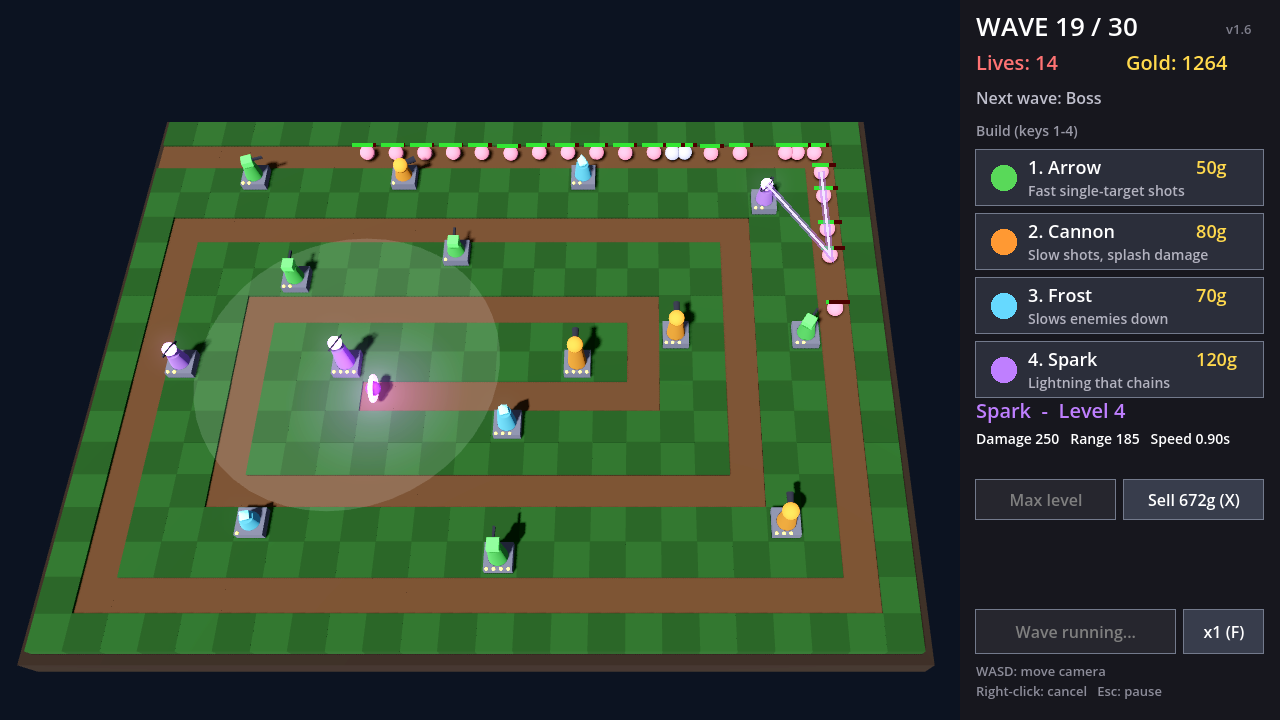
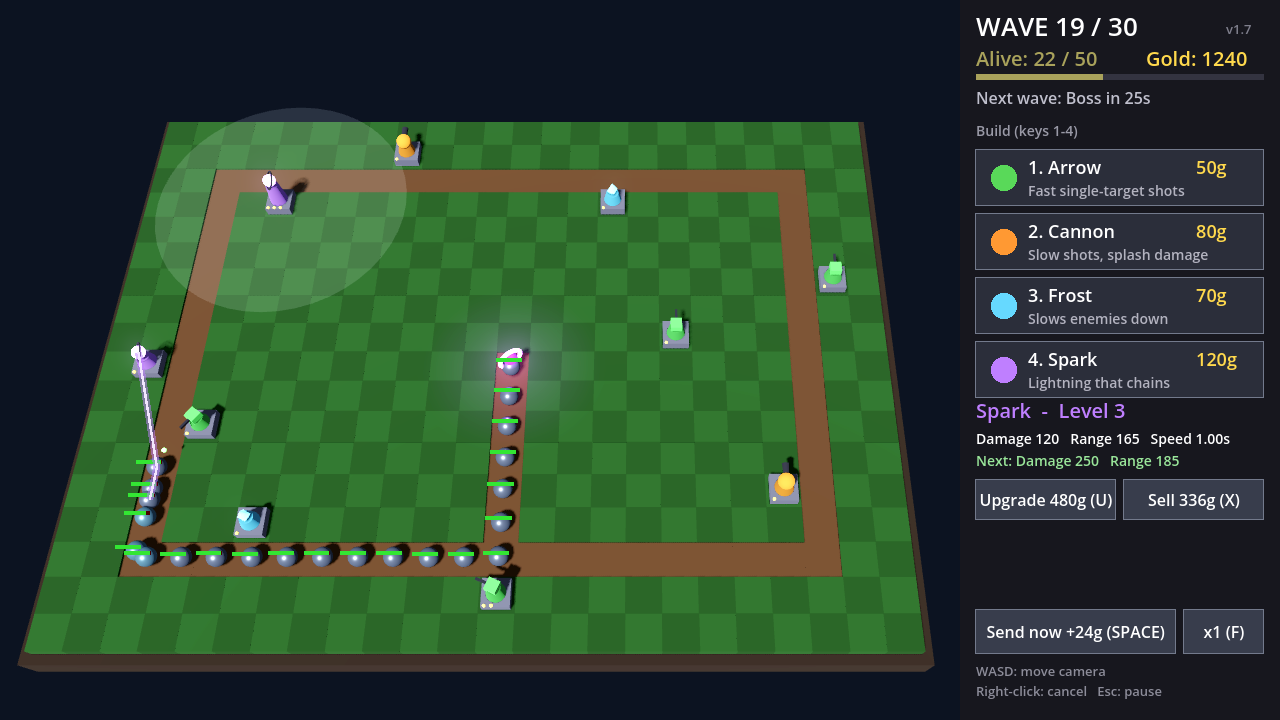
New game mode: monsters loop around a square
- Monsters spawn from the portal in the middle, walk down to a square
  path and walk around it clockwise until they die
- No more lives: you lose when 50 monsters are alive at once (a boss counts as 5)
- Waves come every 25 seconds after the first; Space sends one early
  for 1 bonus gold per second skipped, plus gold at the start of each wave
- Win when all 30 waves are out and every monster is dead
- Set version to 1.7; update README and screenshot

diff --git a/README.md b/README.md
@@ -4,7 +4,7 @@ A small 3D tower defense game made with [Godot 4](https://godotengine.org/), ins
 
 ![Screenshot of the game](screenshot.png)
 
-Enemies walk a spiral path toward a portal in the middle of the map. Build towers on the grass beside the path, upgrade them, and stop the enemies before they get through. Survive all 30 waves to win.
+Monsters come out of a portal in the middle of the map, walk out to a square path and walk around it clockwise, forever, until your towers kill them. Build towers on the grass, upgrade them, and don't let too many monsters pile up: if 50 are alive at the same time, you lose. Survive all 30 waves to win.
 
 The 3D world is built from simple shapes in code, so the game has no image, model or sound files.
 
@@ -36,7 +36,7 @@ godot --path path/to/this/folder
 | **U** | Upgrade the selected tower |
 | **X** / **Delete** | Sell the selected tower (70% refund) |
 | **W A S D** | Move the camera |
-| **Space** | Start the next wave |
+| **Space** | Start the game / send the next wave early (bonus gold) |
 | **F** | Change game speed (1×, 2×, 3×) |
 | **Right-click** | Cancel |
 | **Esc** | Pause / continue |
@@ -55,20 +55,22 @@ Each tower has 4 levels.
 
 ## Waves
 
-- **30 waves.** Enemies get tougher every wave.
+- **30 waves.** Monsters get tougher every wave.
+- Press **Space** to start. After that, a new wave comes every **25 seconds**, whether you're ready or not.
+- Press **Space** to send the next wave early and get **1 bonus gold for every second** you skip.
 - Every **3rd** wave is **armored**: armor reduces the damage of each hit.
 - Every **5th** wave is **fast**.
-- Every **10th** wave is a **boss**. A boss that reaches the portal costs 5 lives.
+- Every **10th** wave is a **boss**. A boss counts as 5 monsters toward the limit.
 
-You start with 150 gold and 20 lives. You earn gold for each kill and a bonus for each wave you clear.
+You start with 150 gold. You earn gold for each kill and a bonus at the start of each wave. The side panel shows how many monsters are alive: you lose if it reaches **50**. You win when all 30 waves are out and every monster is dead.
 
 ## Changing the game
 
 All the game code is in `main.gd`. Good places to start:
 
 - `TOWERS` at the top sets each tower's cost, damage, range and fire rate.
-- `START_GOLD`, `START_LIVES` and `MAX_WAVE` set the starting values and the number of waves.
-- `WAYPOINTS` sets the shape of the path.
+- `START_GOLD`, `MAX_ALIVE`, `WAVE_INTERVAL` and `MAX_WAVE` set the starting gold, the monster limit, the time between waves and the number of waves.
+- `SPAWN_PATH` and `LOOP` set the shape of the path: from the portal out to the square, and the square itself.
 - `start_wave()` controls how much health enemies get each wave.
 - `build_world()` sets up the 3D scene: camera angle, lighting and map colors.
 - `build_tower_node()` builds each tower's 3D model.
